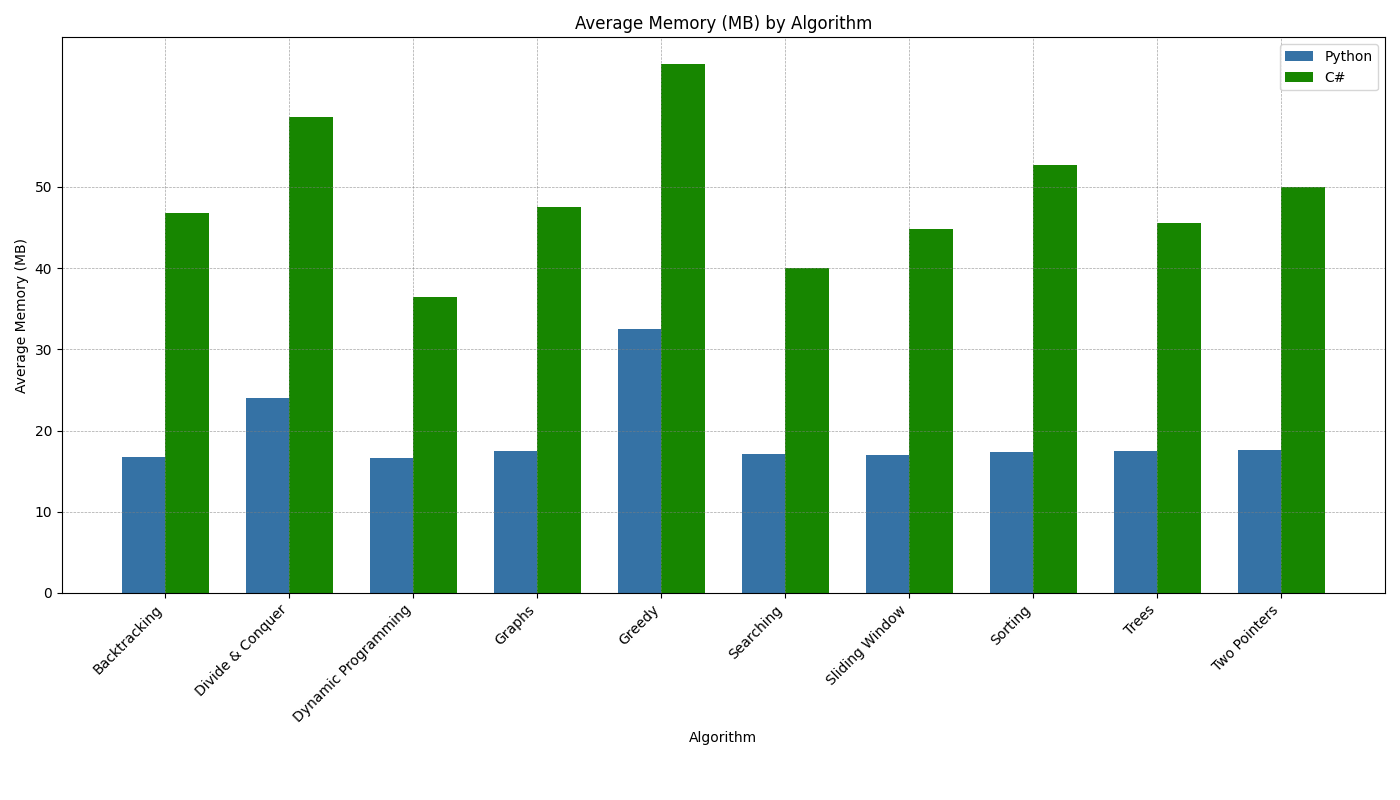
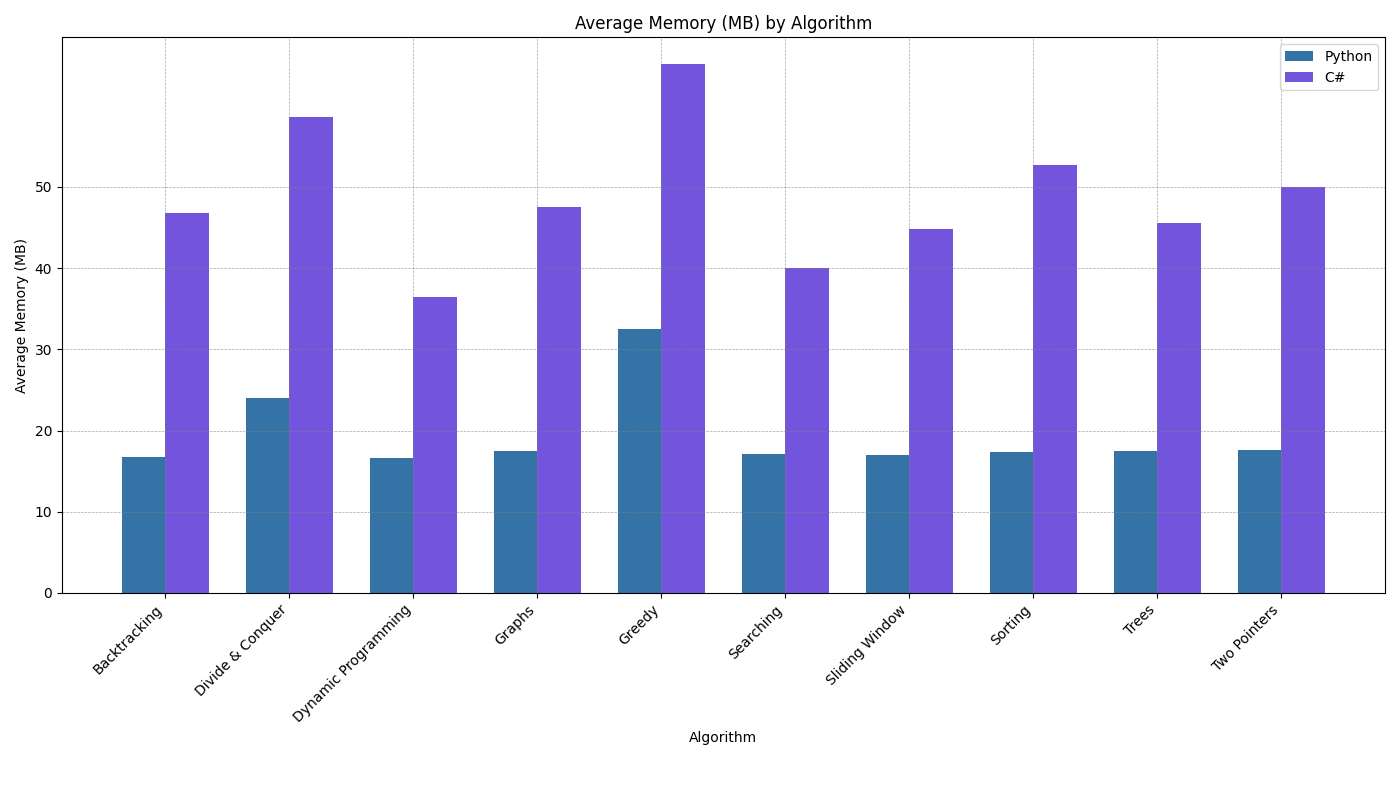
update visualizations

diff --git a/visualization.py b/visualization.py
@@ -23,7 +23,7 @@ def create_bar_graph(x, y1, y2, labels, title, y_label, filename, note, y_ticks,
     index = range(len(x))
     
     plt.bar(index, y1, bar_width, label='Python', color='#3572A5')
-    plt.bar([i + bar_width for i in index], y2, bar_width, label='C#', color='#178600')
+    plt.bar([i + bar_width for i in index], y2, bar_width, label='C#', color='#7355dd')
 
     plt.xlabel(labels['x_label'])
     plt.ylabel(y_label)
